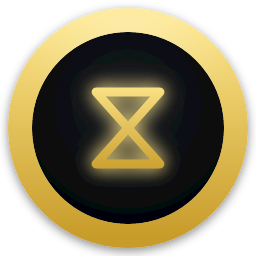
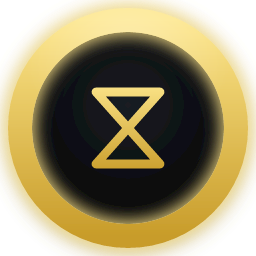
Glow on the ring instead of the symbol; imperative Limited descriptions
- Moved the glow halo from the symbol to the metal ring (renamed
  filter symbolGlow → ringGlow and re-applied to the ring circle).
  The symbol stays crisp, the ring blooms — same medallion warmth
  without the blurry-symbol effect.
- Cipher and Apex descriptions switched to imperative form:
  "Uncover what was hidden" / "Outperform all challengers".

diff --git a/script.js b/script.js
@@ -1676,13 +1676,13 @@ const COMMENDATION_REGISTRY = {
     cipher: {
         category: 'Limited',
         name: 'Cipher',
-        description: 'Uncovering what was hidden',
+        description: 'Uncover what was hidden',
         tiers: [1],
     },
     apex: {
         category: 'Limited',
         name: 'Apex',
-        description: 'Outperforming all challengers',
+        description: 'Outperform all challengers',
         tiers: [1],
     },
 };
